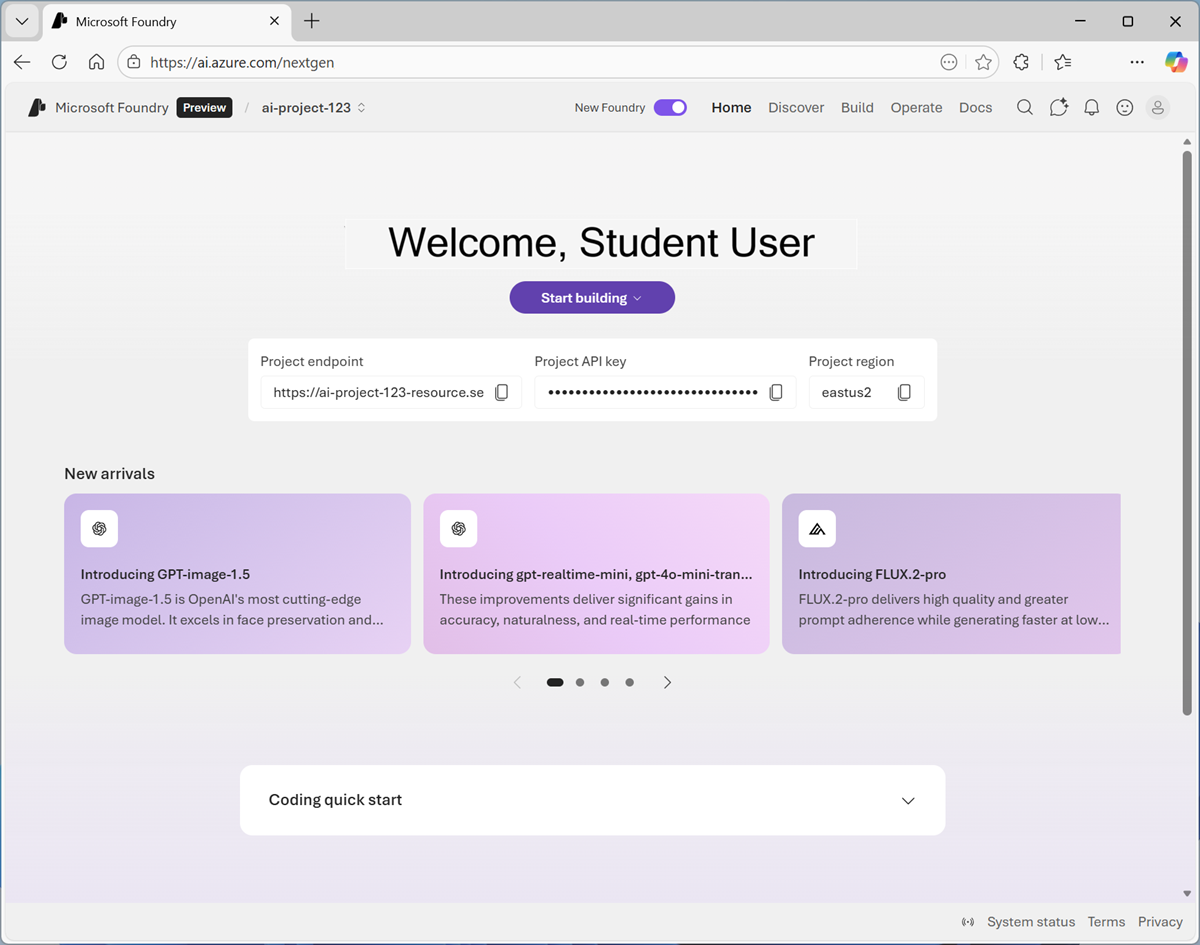
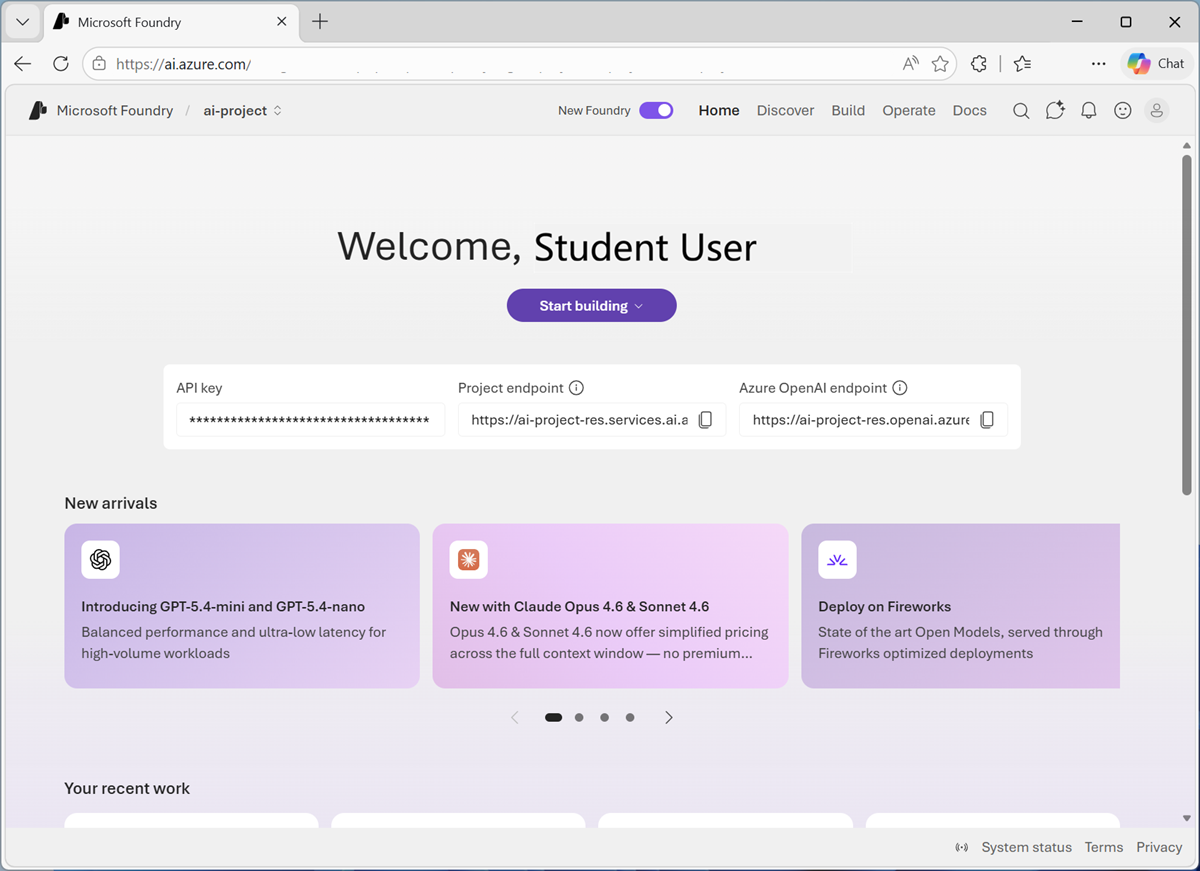
Updated screenshots and links

diff --git a/Instructions/exercises/00-ai-workloads.md b/Instructions/exercises/00-ai-workloads.md
@@ -11,7 +11,9 @@ lab:
 
 In this exercise, you'll explore common AI workloads in an AI chat application that provides information about computing history, and help with historical computing projects and vintage computer restoration.
 
-> **Note**: The Computing History app is provided in two variants: An Azure-based solution that uses a model and tools in Microsoft Foundry, and a browser-based solution that downloads and runs models locally in your web browser. To use the Azure-based application, you require an Azure subscription in which to create a Foundry project and deploy a model. The browser-based application has some functional and performance limitations, but is designed to work in most modern browsers with no subscription or setup required.
+If you don't have an Azure account, jump straight to the <a href="#open-the-computing-history-app">Open the computing history app</a> section.
+
+> **Note**: The Computing History app is provided in two variants: An Azure-based solution that uses a model and tools in Microsoft Foundry, and a browser-based solution that downloads and runs models locally in your web browser. To use the Azure-based application, you require an Azure subscription in which to create a Foundry project and deploy a model. The browser-based application has some functional and performance limitations, but is designed to work in most modern browsers with no subscription or setup required. If you don't have an Azure account, jump straight to the <a href="#open-the-computing-history-app">Open the computing history app</a> section
 
 This exercise should take approximately **15** minutes to complete.
 
@@ -19,7 +21,7 @@ This exercise should take approximately **15** minutes to complete.
 
 To use the Azure-based computing history app, you need a generative AI model deployed in Microsoft Foundry.
 
-> **Tip**: You need only complete this procedure if you want to use the Azure-based application. If you do not have an Azure subscription, or want to perform the lab completely in-browser, skip to the **Open the Computing History app** section.
+> **Tip**: You need only complete this procedure if you want to use the Azure-based application. If you do not have an Azure subscription, or want to perform the lab completely in-browser, skip to the <a href="#open-the-computing-history-app">Open the computing history app</a> section.
 
 1. In a web browser, open [Microsoft Foundry](https://ai.azure.com){:target="_blank"} at `https://ai.azure.com` and sign in using your Azure credentials. Close any tips or quick start panes that are opened the first time you sign in, and if necessary use the **Foundry** logo at the top left to navigate to the home page.
 
